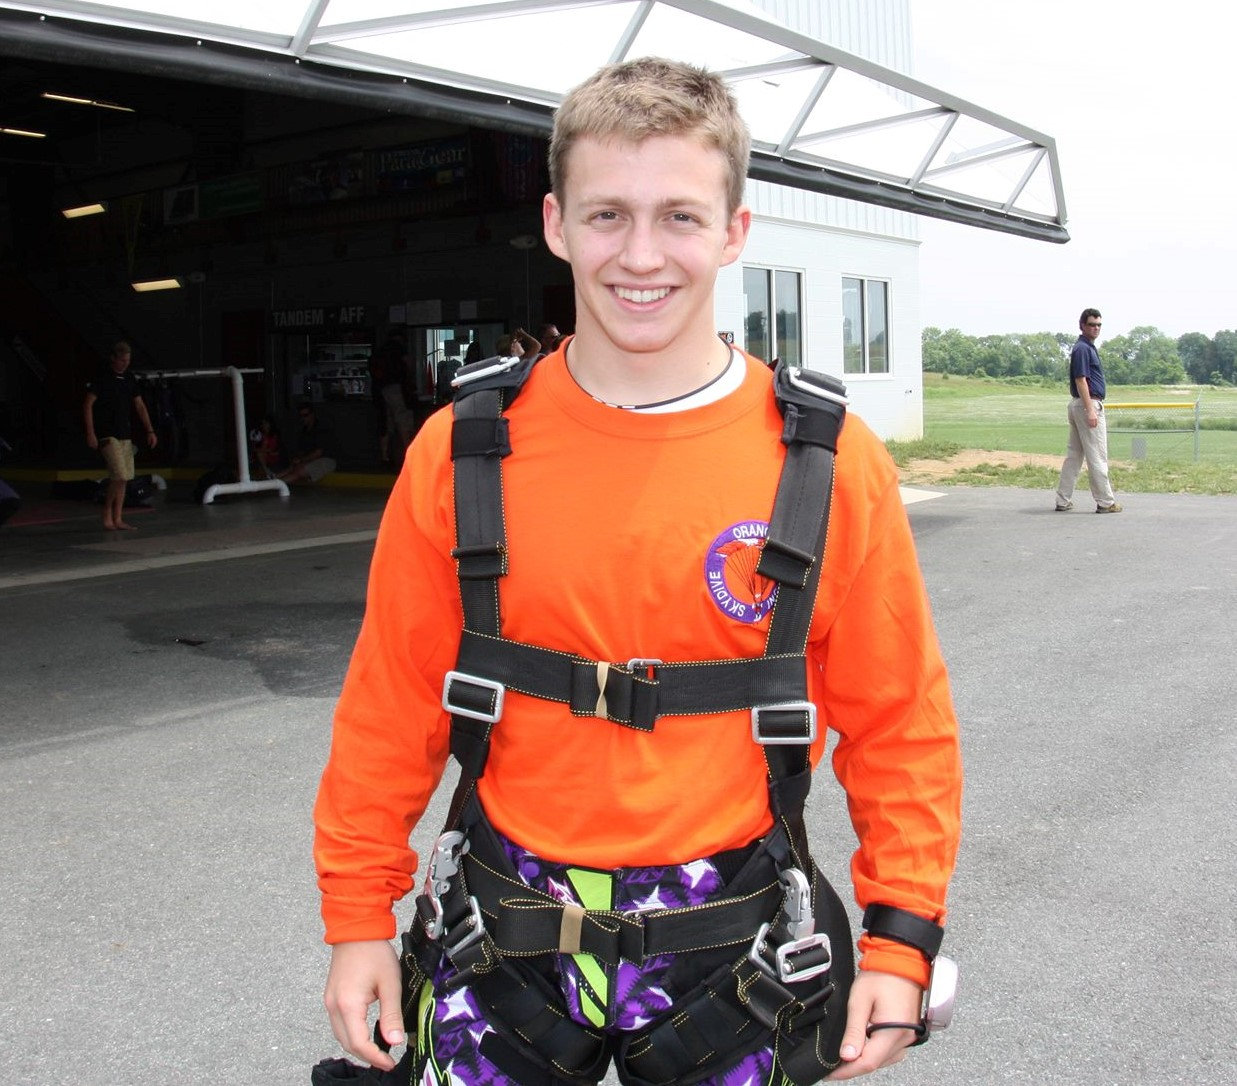
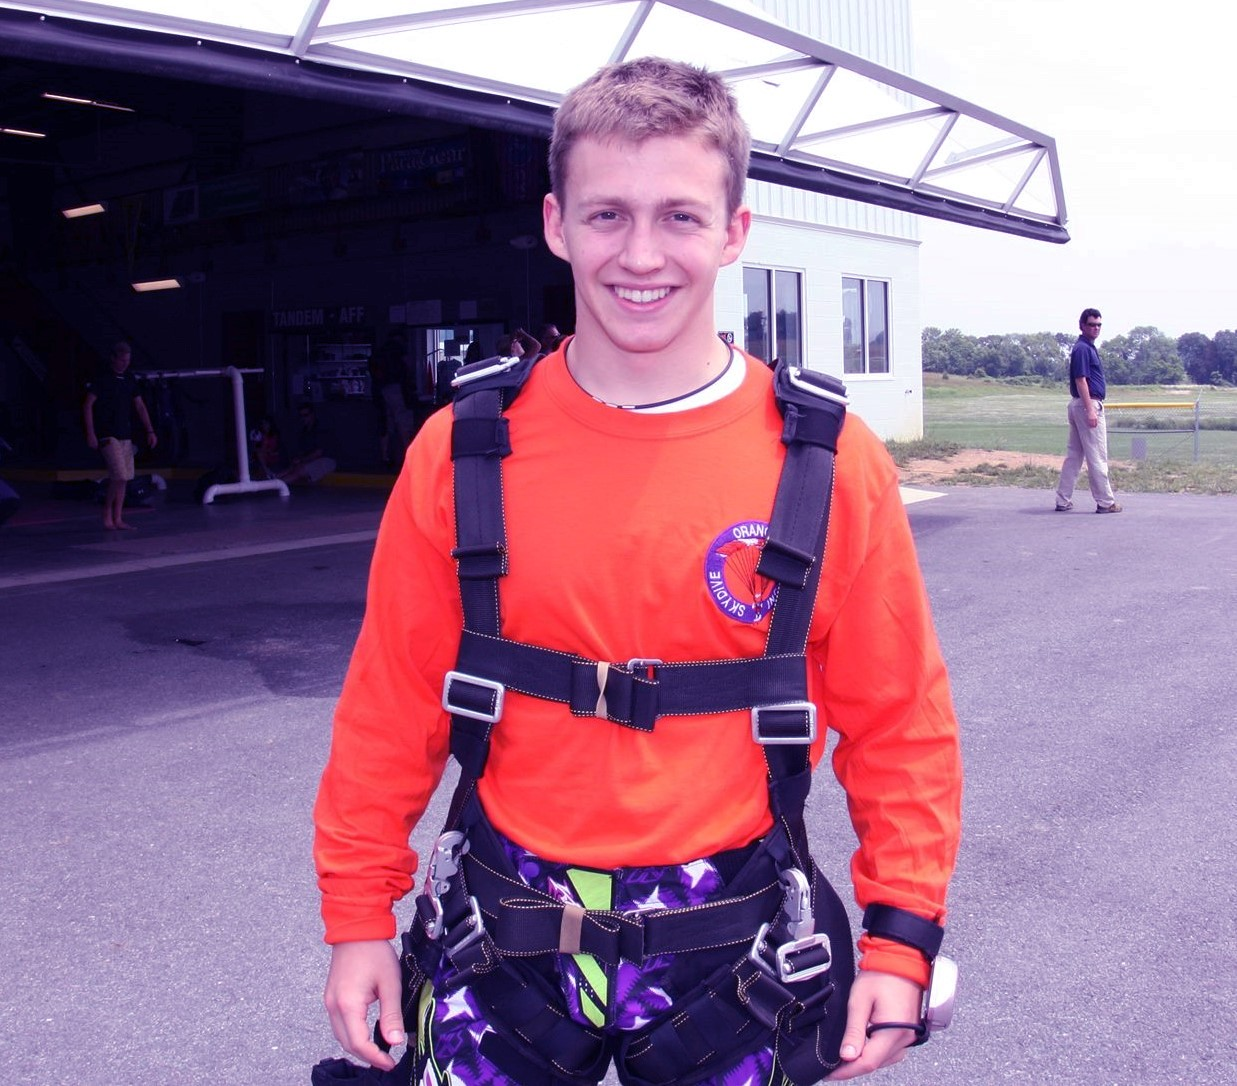
color scheme change

diff --git a/style.css b/style.css
@@ -9,15 +9,14 @@ html {
 }
 
 body {
-
   text-align: center;
-  background: -webkit-linear-gradient(top left, #ffffffd8, #974e61c4);
-  background: -moz-linear-gradient(top left, #ffffffd8, #974e61c4);
-  background: linear-gradient(to bottom right, white, #974e61c4);
+  background: -webkit-linear-gradient(top left, #ffffffd8, #d83214d2);
+  background: -moz-linear-gradient(top left, #ffffffd8, #d83214d2);
+  background: linear-gradient(to bottom right, white, #250744);
 }
 
 .navbar {
-  border-bottom: 1px dashed #bc4159;
+  border-bottom: 1px dashed #130b52;
 }
 
 .navbar ul {
@@ -37,8 +36,6 @@ body {
 .navbar a {
   text-decoration: none;
   display: block;
-  color: #c05a6e
-  ;
   width: 120px;
   text-align: center;
   padding: 10px 20px;
@@ -53,90 +50,79 @@ body {
 
 .navbar a.active {
   color: white;
-  background-color: #bc4159;
+  background-color: #a00303;
   border-radius: 5px;
 }
 
-
-#circle_image_responsive{
-  display: inline-block;
-  border-radius: 10%;
-  overflow: hidden;
-  border: 5px solid #f9ffdb;
-  filter: drop-shadow( 1px 1px 4px #1e2012);
+.container {
   position: relative;
-  top: 10px;
-  color: #000;
-  height: 40%;
-  width: 40%;
-  object-fit: cover;
-  box-shadow: 5px 5px 5px black;
+  text-align: center;
 }
 
-#title_page { color: white; font-family: 'Helvetica Neue', sans-serif; font-weight: bold; 
-  letter-spacing: -1px; text-align: center; position: fixed; left: 50%; top: 30%; transform: translate(-50%, -50%);}
+.centered {
+  position: absolute;
+  top: 50%;
+  left: 50%;
+  transform: translate(-50%, -50%);
+}
+
+.centered2 {
+  position: absolute;
+  top: 59%;
+  left: 50%;
+  transform: translate(-50%, -50%);
+}
+
+.centered3 {
+  position: absolute;
+  top: 64%;
+  left: 50%;
+  transform: translate(-50%, -50%);
+}
+
+#circle_image_responsive{
+  margin: 5px 5px;
+  border-radius: 50%;
+  overflow: hidden;
+  border: 5px solid #bc4159;
+  object-fit: cover;
+  object-position: 50% 50%;
+  box-shadow: 5px 5px 5px #130b52;
+  filter: grayscale(100%); 
+  width: 1000px;
+  height: auto;
+}
 
 #clip-art {
   opacity: .1;
 }
 
-@media screen and (min-width: 601px) {
-  div.navbar {
-    font-size: 22px;
-  }
-}
-
-@media screen and (max-width: 600px) {
-  div.navbar {
-    font-size: 15px;
-  }
-}
-
-@media screen and (min-width: 601px) {
-  div.title_page {
-    font-size: 70px;
-  }
-}
-
-@media screen and (max-width: 600px) {
-  div.title_page {
-    font-size: 85px;
-  }
-}
-
 h1 {
-  top: 40%;
-  left: 50%;
+  font-size: 85px;
   margin: 0;
   transform: translate(-50%, -50%);
   position: absolute;
   font-weight: 900;
-  text-decoration: underline #bc4159 .5px dashed;
-  text-underline-offset: 15px;
 }
 
 h2 {
-  font-size: 30px;
+  font-size: 25px;
   position: absolute;
-  top: 52%;
-  left: 50%;
   margin: 0;
   transform: translate(-50%, -50%);
   font-weight: 900;
   width: max-content;
-  color: #c05a6e;
+  color: white;
   text-shadow: #130b52 1px 1px 1px;
 }
 
 h3 {
-  font-size: 30px;
+  font-size: 25px;
   position: absolute;
-  top: 58%;
-  left: 50%;
   margin: 0;
   transform: translate(-50%, -50%);
   font-weight: 900;
-  color: #c05a6e;
+  color: white;
   text-shadow: #130b52 1px 1px 1px;
 }
 
@@ -146,7 +132,7 @@ h3 {
   height: 100%;
 }
 .wrapper h1 {
-  color: #fbe6d3;
+  color: white;
   text-transform: uppercase;
   width: 100%;
   text-align: center;
@@ -159,7 +145,7 @@ h3 {
   top: 0;
   z-index: 2;
   overflow: hidden;
-  color: #c05a6e;
+  color: #ffffff;
   transform: translate(0vw, 0vh);
   mix-blend-mode: darken;
   text-align: center;
@@ -167,4 +153,46 @@ h3 {
   text-shadow: 1px 0px 0px #3e2e6a, 0px 1px 0px #130b52, 2px 1px 0px #3e2e6a, 1px 2px 0px #130b52, 3px 2px 0px #3e2e6a, 2px 3px 0px #130b52, 4px 3px 0px #3e2e6a, 3px 4px 0px #130b52, 5px 4px 0px #3e2e6a, 4px 5px 0px #130b52, 6px 5px 0px #3e2e6a, 5px 6px 0px #130b52, 7px 6px 0px #3e2e6a;
 }
 
+.wrapper h2 {
+  color: white;
+  text-transform: uppercase;
+  width: 100%;
+  text-align: center;
+  text-shadow: -1px -1px 0 #3e2e6a, 1px -1px 0 #3e2e6a, -1px 1px 0 #3e2e6a, 1px 1px 0 #3e2e6a;
+}
+.wrapper h2:after {
+  content: attr(data-heading);
+  position: absolute;
+  left: 0;
+  top: 0;
+  z-index: 2;
+  overflow: hidden;
+  color: #ffffff;
+  transform: translate(0vw, 0vh);
+  mix-blend-mode: darken;
+  text-align: center;
+  width: 100%;
+  text-shadow: 1px 0px 0px #3e2e6a, 0px 1px 0px #130b52, 2px 1px 0px #3e2e6a, 1px 2px 0px #130b52, 3px 2px 0px #3e2e6a, 2px 3px 0px #130b52, 4px 3px 0px #3e2e6a, 3px 4px 0px #130b52, 5px 4px 0px #3e2e6a, 4px 5px 0px #130b52, 6px 5px 0px #3e2e6a, 5px 6px 0px #130b52, 7px 6px 0px #3e2e6a;
+}
 
+.wrapper h3 {
+  color: white;
+  text-transform: uppercase;
+  width: 100%;
+  text-align: center;
+  text-shadow: -1px -1px 0 #3e2e6a, 1px -1px 0 #3e2e6a, -1px 1px 0 #3e2e6a, 1px 1px 0 #3e2e6a;
+}
+.wrapper h3:after {
+  content: attr(data-heading);
+  position: absolute;
+  left: 0;
+  top: 0;
+  z-index: 2;
+  overflow: hidden;
+  color: #ffffff;
+  transform: translate(0vw, 0vh);
+  mix-blend-mode: darken;
+  text-align: center;
+  width: 100%;
+  text-shadow: 1px 0px 0px #3e2e6a, 0px 1px 0px #130b52, 2px 1px 0px #3e2e6a, 1px 2px 0px #130b52, 3px 2px 0px #3e2e6a, 2px 3px 0px #130b52, 4px 3px 0px #3e2e6a, 3px 4px 0px #130b52, 5px 4px 0px #3e2e6a, 4px 5px 0px #130b52, 6px 5px 0px #3e2e6a, 5px 6px 0px #130b52, 7px 6px 0px #3e2e6a;
+}

diff --git a/index.html b/index.html
@@ -17,15 +17,18 @@
             <li><a href="contact_me.html">Contact Me</a></li>
         </ul>
     </div>
-    <div class="title_page">
-        <div class="wrapper" >
-            <h1 data-heading="Michael Rigali">
+   
+    
+    <div class="container">
+        <div class="wrapper">
+            <img src="michael.jpg" id="circle_image_responsive"> 
+            <h1 data-heading="Michael Rigali" class="centered">
             Michael Rigali
             </h1>
-            <h2 data-heading="Oregon State University, Post-Baccalaureate Computer Science.">
+            <h2 data-heading="Oregon State University, Post-Baccalaureate Computer Science." class="centered2">
                 Oregon State University, Post-Baccalaureate Computer Science.
             </h2>
-            <h3 data-heading="Expected Graduation: Summer 2023">
+            <h3 data-heading="Expected Graduation: Summer 2023" class="centered3">
                 Expected Graduation: Summer 2023
             </h3>
         </div>

diff --git a/about_me.html b/about_me.html
@@ -1,6 +1,13 @@
 <!DOCTYPE html>
 <html lang="en">
-
+    <style>
+        img {
+          float: left;
+        }
+        p {
+          float: inline-end; 
+        }
+      </style>
 <head>
     <meta charset="UTF-8">
     <meta http-equiv="X-UA-Compatible" content="IE=edge">
@@ -22,12 +29,10 @@
 </header>
 
 <body>
-
-    <div>
-        <img id="circle_image_responsive" src="./michael.jpg"/>
-    </div>
-
     
+        
+        
+    </div>
 </body>
 </div>
 
